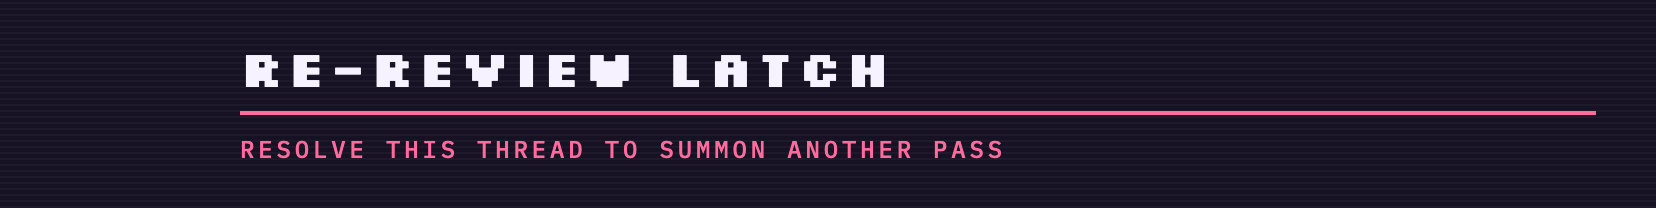
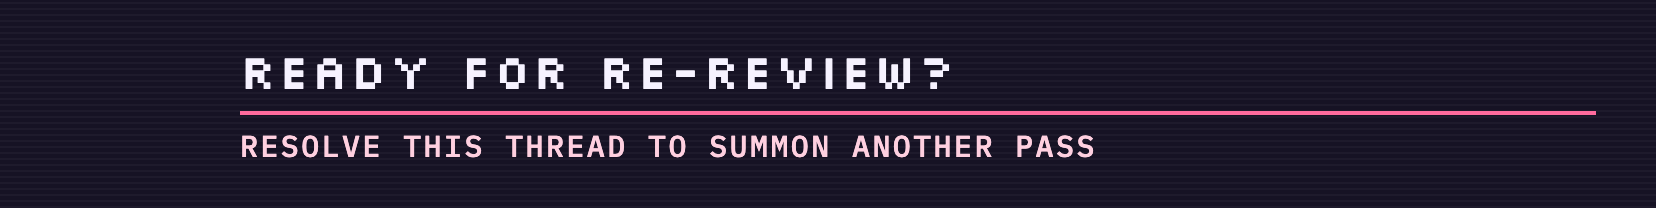
latch band: open pixel headline, larger brighter caption

Changed region(s): [[0.1232, 0.6346, 0.6775, 0.7788], [0.1232, 0.2596, 0.5851, 0.4327]]

diff --git a/scripts/build-latch-band.ts b/scripts/build-latch-band.ts
@@ -27,15 +27,18 @@ const html = `<!doctype html><meta charset="utf-8">
     background: #161224;
     background-image: repeating-linear-gradient(0deg, rgba(255,255,255,0.035) 0 2px, transparent 2px 6px);
   }
-  .stack { display: flex; flex-direction: column; gap: 18px; width: 100%; }
-  .title { font-family: 'Silkscreen', 'Courier New', monospace; font-weight: 700;
-           font-size: 50px; letter-spacing: 0.08em; color: #f6f2ff; line-height: 1; }
+  .stack { display: flex; flex-direction: column; gap: 16px; width: 100%; }
+  /* GitLab shows the band at about half width. Silkscreen draws on an 8px
+     grid, so 48px lands on whole pixels at 50% where 50px smeared; weight 400
+     keeps the counters open that 700 filled in. */
+  .title { font-family: 'Silkscreen', 'Courier New', monospace; font-weight: 400;
+           font-size: 48px; letter-spacing: 0.06em; color: #f6f2ff; line-height: 1; }
   .rule { height: 4px; background: #ff6b9d; width: 100%; }
-  .sub { font-family: 'IBM Plex Mono', ui-monospace, monospace; font-size: 24px;
-         letter-spacing: 0.16em; color: #ff6b9d; text-transform: uppercase; }
+  .sub { font-family: 'IBM Plex Mono', ui-monospace, monospace; font-size: 30px;
+         letter-spacing: 0.08em; color: #ffd0e0; text-transform: uppercase; line-height: 1; }
 </style>
 <div class="band"><div class="stack">
-  <div class="title">RE-REVIEW LATCH</div>
+  <div class="title">READY FOR RE-REVIEW?</div>
   <div class="rule"></div>
   <div class="sub">resolve this thread to summon another pass</div>
 </div></div>`;
